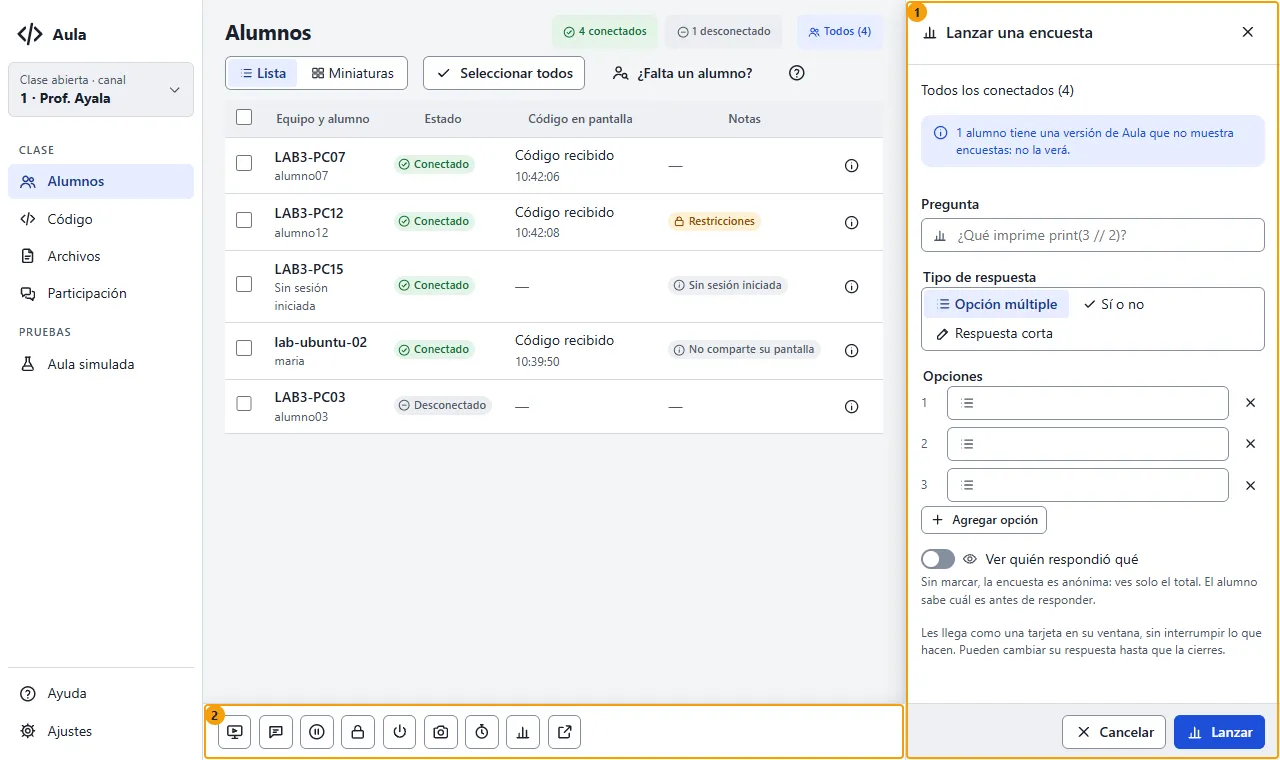
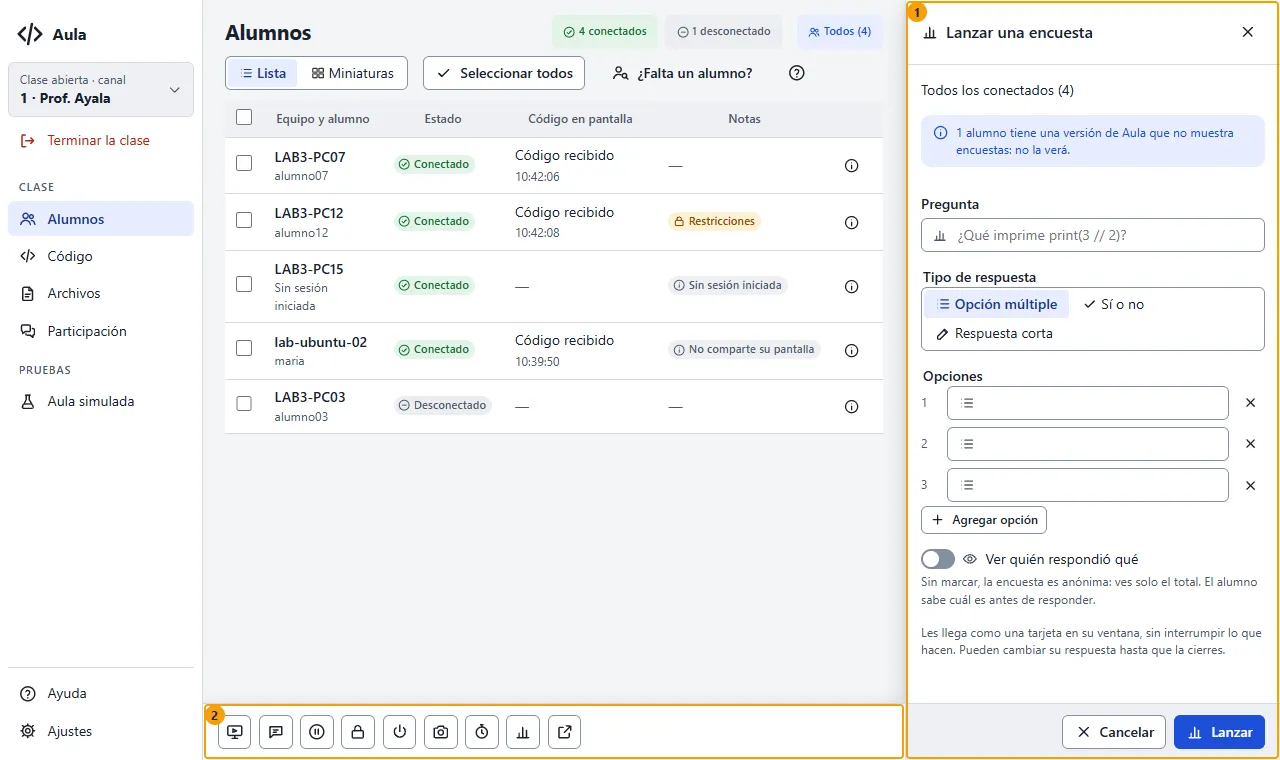
documentacion(ux): zonas de Terminar la clase, mapa, historial y propuesta P-03
Zonas Terminar la clase, su diálogo y la tarjeta del alumno, el mapa regenerado, la página
del historial con la ubicación elegida y las decisiones, y P-03 para borrar archivos al
terminar, que queda fuera de esta versión.

Changed region(s): [[0.0, 0.1816, 0.125, 0.3934], [0.0, 0.4237, 0.0938, 0.5447], [0.125, 0.2118, 0.1562, 0.2421]]

diff --git a/docs/ux/MAPA.md b/docs/ux/MAPA.md
@@ -16,12 +16,13 @@ archivo y sus imágenes los genera `node scripts/ux/mapa.mjs` (no se editan a ma
 |---|---|---|
 | 1 | **Menú** | Columna izquierda: la clase abierta, las vistas y Ayuda y Ajustes. |
 | 2 | **Selector de clase** | Canal y nombre de la clase abierta; abre «Cambiar de canal». |
-| 3 | **Cabecera de la vista** | Título de la vista, su resumen y el «?» de ayuda contextual. |
-| 4 | **Selección** | A quién van las acciones de la barra: «Todos (n)» o «n seleccionados», con su explicación en el tooltip. |
-| 5 | **Selector Lista | Miniaturas** | Cambia entre la tabla y las miniaturas de pantalla. |
-| 6 | **Lista de alumnos** | Tabla con un alumno por fila. |
-| 7 | **Fila del alumno** | Un alumno: casilla, equipo, estado, insignias y el botón de su ficha. |
-| 8 | **Barra de acciones** | Abajo: lo que se aplica a la selección (aviso, transmitir, pausar, restricciones, captura, temporizador, encuesta, energía…). |
+| 3 | **Terminar la clase** | Bajo el Selector de clase: detiene lo activo y deja limpia la ventana de cada alumno (prompt 10.14). |
+| 4 | **Cabecera de la vista** | Título de la vista, su resumen y el «?» de ayuda contextual. |
+| 5 | **Selección** | A quién van las acciones de la barra: «Todos (n)» o «n seleccionados», con su explicación en el tooltip. |
+| 6 | **Selector Lista | Miniaturas** | Cambia entre la tabla y las miniaturas de pantalla. |
+| 7 | **Lista de alumnos** | Tabla con un alumno por fila. |
+| 8 | **Fila del alumno** | Un alumno: casilla, equipo, estado, insignias y el botón de su ficha. |
+| 9 | **Barra de acciones** | Abajo: lo que se aplica a la selección (aviso, transmitir, pausar, restricciones, captura, temporizador, encuesta, energía…). |
 
 ### Consola · Alumnos (miniaturas)
 
@@ -71,6 +72,15 @@ archivo y sus imágenes los genera `node scripts/ux/mapa.mjs` (no se editan a ma
 | 1 | **Franja global** | Lo que sigue activo durante la clase (transmitir, proyectar a un alumno, control, pantallas en pausa, energía, temporizador, encuesta abierta, aula simulada), con su botón para detenerlo. |
 | 2 | **Panel Pausar pantallas** | Pausar las pantallas de la selección o de todos, con un mensaje opcional, o reanudarlas (Ctrl+Mayús+P). |
 | 3 | **Barra de acciones** | Abajo: lo que se aplica a la selección (aviso, transmitir, pausar, restricciones, captura, temporizador, encuesta, energía…). |
+
+### Consola · Terminar la clase
+
+![Consola · Terminar la clase](mapa/consola-terminar.webp)
+
+| # | Zona | Qué es |
+|---|---|---|
+| 1 | **Terminar la clase** | Bajo el Selector de clase: detiene lo activo y deja limpia la ventana de cada alumno (prompt 10.14). |
+| 2 | **Diálogo Terminar la clase** | Lo que sigue activo, lo que se vacía y lo opcional (recoger, cancelar la energía); después, los pasos y el resultado por alumno con «Reintentar a los que faltan». |
 
 ### Consola · Abrir página o app
 
@@ -168,6 +178,16 @@ archivo y sus imágenes los genera `node scripts/ux/mapa.mjs` (no se editan a ma
 | 3 | **Bandas de transparencia** | Lo que el profesor hace con el equipo (energía, control, pantalla en pausa, pantalla vista, tu pantalla mostrada a la clase, restricciones); no se cierran. |
 | 4 | **Estado vacío** | Lo que se ve cuando no hay código ni archivos. |
 
+### Alumno · La clase terminó
+
+![Alumno · La clase terminó](mapa/alumno-fin-clase.webp)
+
+| # | Zona | Qué es |
+|---|---|---|
+| 1 | **Tira de identidad** | Arriba: a qué clase está conectado, el temporizador y los botones del alumno. |
+| 2 | **Tarjeta «La clase terminó»** | Cuándo terminó la clase y qué se quitó, con «Entendido»; no es una banda (prompt 10.14). |
+| 3 | **Estado vacío** | Lo que se ve cuando no hay código ni archivos. |
+
 ### Alumno · Código recibido
 
 ![Alumno · Código recibido](mapa/alumno-codigo.webp)
@@ -238,6 +258,7 @@ También las que no salen en una imagen (diálogos y paneles). El `id` es el que
 |---|---|---|
 | `menu` | Menú | Columna izquierda: la clase abierta, las vistas y Ayuda y Ajustes. |
 | `menu-clase` | Menú › Selector de clase | Canal y nombre de la clase abierta; abre «Cambiar de canal». |
+| `menu-terminar` | Menú › Terminar la clase | Bajo el Selector de clase: detiene lo activo y deja limpia la ventana de cada alumno (prompt 10.14). |
 | `franja` | Franja global | Lo que sigue activo durante la clase (transmitir, proyectar a un alumno, control, pantallas en pausa, energía, temporizador, encuesta abierta, aula simulada), con su botón para detenerlo. |
 | `cabecera` | Cabecera de la vista | Título de la vista, su resumen y el «?» de ayuda contextual. |
 | `avisos` | Avisos (toasts) | Mensajes breves abajo a la derecha tras una acción. |
@@ -257,6 +278,7 @@ También las que no salen en una imagen (diálogos y paneles). El `id` es el que
 | `dlg-privado` | Diálogo Mensaje privado | Escribir un mensaje solo para un alumno, con su tipo; se abre desde la Pantalla grande. |
 | `dlg-abrir` | Diálogo Abrir en un alumno | Abrir una página o una app permitida en el equipo de un alumno; se abre desde la Pantalla grande. |
 | `dlg-plantilla` | Diálogo Nueva plantilla | Crear una plantilla con su nombre y sus archivos; se abre desde Plantillas (nota de interfaz 17). |
+| `dlg-terminar` | Diálogo Terminar la clase | Lo que sigue activo, lo que se vacía y lo opcional (recoger, cancelar la energía); después, los pasos y el resultado por alumno con «Reintentar a los que faltan». |
 | `dlg-pausa` | Diálogo Cambiar mensaje de la pausa | Cambiar el mensaje de las pantallas en pausa; se abre desde la Franja global (prompt 10.21). |
 | `panel-aviso` | Panel Aviso | Mandar un aviso a la selección. |
 | `panel-pausa` | Panel Pausar pantallas | Pausar las pantallas de la selección o de todos, con un mensaje opcional, o reanudarlas (Ctrl+Mayús+P). |
@@ -312,6 +334,7 @@ También las que no salen en una imagen (diálogos y paneles). El `id` es el que
 | `capacidades` | Qué puede hacer Aula en este equipo | La grilla de lo que el profesor puede hacer con este equipo, como la ficha de la consola. |
 | `enviados` | Tus mensajes | Los mensajes enviados y si llegaron. |
 | `vacio` | Estado vacío | Lo que se ve cuando no hay código ni archivos. |
+| `fin-clase` | Tarjeta «La clase terminó» | Cuándo terminó la clase y qué se quitó, con «Entendido»; no es una banda (prompt 10.14). |
 | `encuestas` | Encuestas | Una tarjeta por encuesta del profesor, arriba de la lista. |
 | `tarjeta-encuesta` | Encuestas › Tarjeta de encuesta | La pregunta, si es anónima, las opciones con Enviar y, si el profesor los comparte, los resultados de la clase. |
 | `recolecciones` | Recolecciones | Una tarjeta por recolección del profesor. |

diff --git a/docs/ux/historial/terminar-la-clase.md b/docs/ux/historial/terminar-la-clase.md
@@ -1,0 +1,54 @@
+# Terminar la clase (10.14): ubicación y decisiones
+
+Estado: **implementado, sin commit** (12/11/2026). Prompt `docs/prompts/10.14-terminar-la-clase.md`,
+con `/funcionalidad-nueva 10.14`. Sin capturas versionadas: las del arnés son
+`scripts/ux/salida/184-188` (consola) y `scripts/ux/salida-alumno/95-97` (alumno), y salen en el CI.
+El mapa tiene «Consola · Terminar la clase» y «Alumno · La clase terminó».
+
+## Análisis
+
+En un laboratorio compartido, el profesor que olvida detener algo (una restricción, una pausa, el
+temporizador) se lo deja al siguiente grupo. Cada función ya tenía su parada; faltaba una sola
+acción que las llamara en orden y limpiara la ventana del alumno, que ninguna parada tocaba (el
+código, los avisos, las tarjetas de archivos y encuestas, la mano).
+
+- **No es una acción sobre la selección ni sobre un alumno:** es sobre la clase entera. Por eso no
+  va en la Barra de acciones ni en la Pantalla grande.
+- **No es algo que «sigue activo»:** la Franja global solo aparece si hay algo activo, y la ventana
+  del alumno puede necesitar limpieza aunque no haya nada activo.
+- **No tiene material propio:** no es un módulo del menú.
+
+## Opciones de ubicación presentadas
+
+1. **Bajo el Selector de clase del Menú** (recomendada, elegida): siempre visible, junto a lo que
+   identifica la clase; en el menú compacto queda el icono.
+2. **Franja global:** al final de las franjas, solo con algo activo.
+3. **Cabecera de Alumnos:** junto a la Selección, solo en esa vista.
+
+En las tres, el diálogo es propio («Terminar la clase»), no un panel de la barra.
+
+## Decisiones
+
+- **Mensaje nuevo `class.end`** con acuse y capacidad (§5.25), en vez de solo los mensajes uno por
+  uno: limpia la ventana de una vez y en orden, y da un resultado por alumno. Un agente anterior
+  recibe `code.clear` y queda «limpio en parte».
+- **Orden:** recoger (opcional) → lo que actúa sobre el equipo → lo que informa → energía (solo si
+  se marca) → `class.end` → la consola «sin clase». Si un paso falla, los demás siguen.
+- **La energía pendiente se conserva** por omisión (regla 85).
+- **No se borran archivos** en esta versión (regla 84); borrar quedó como propuesta P-03.
+- **Historial de código y «Últimos envíos» se vacían** (decisión del usuario): el siguiente grupo
+  empieza de cero. Antes sobrevivían al cambio de canal (C2) y lo siguen haciendo.
+- **Quien faltaba recibe `class.end` al reconectar**, siempre, antes de lo que la consola reenvía:
+  mientras estuvo fuera no recibió nada nuevo, así que no hace falta condicionarlo a que el
+  profesor no haya mandado nada (se simplificó el diseño aprobado).
+- **Sin 10.13:** «Exportar la asistencia», «olvidar la identidad» y «sin materia» se agregan como
+  un paso más cuando exista 10.13.
+- **En el alumno:** una tarjeta arriba del Estado vacío, con «Nuevo», la hora y lo que se quitó;
+  `notify`, nunca `raise`; se cierra con «Entendido» o al llegar código nuevo. No es una banda.
+
+## Resultados
+
+- Capturas 184–188 y 95–97 sin errores de JS ni violaciones serias de axe (la tabla con desplazamiento
+  del resultado necesitó foco y nombre de región).
+- `pruebas-alumno.mjs` «fin-de-clase»: la tarjeta no quita el foco, no es banda, cuenta como «sin ver»
+  y se cierra con «Entendido».

diff --git a/docs/ux/PROPUESTAS.md b/docs/ux/PROPUESTAS.md
@@ -31,6 +31,20 @@ SemVer).
   con una regla nueva en `docs/privacidad.md`. Recomendación: decidirlo junto con la política del
   centro antes de diseñarlo.
 
+## P-03 · Borrar los archivos del alumno al terminar la clase
+
+- **Pide:** prompt 10.14: que «Terminar la clase» deje también vacía la carpeta `Documentos\Aula`
+  del alumno (archivos recibidos y recolecciones), para que el siguiente grupo no los vea.
+- **Hoy:** `class.end` (§5.25) solo quita las tarjetas de la ventana; los archivos se quedan
+  (`docs/privacidad.md` regla 84). Decisión del 2026-11-12: no borrar en esta versión.
+- **Necesitaría:** un campo opcional en `class.end` (por ejemplo, `clear_work_folder`) y una
+  regla del agente que solo borre lo que Aula escribió (con su diario, como las restricciones),
+  nunca lo que el alumno creó. Es compatible hacia atrás si es opcional (versión menor).
+- **Privacidad y riesgo:** borrar trabajo del alumno es irreversible: pediría confirmación del
+  profesor, un aviso en la tarjeta «La clase terminó» y quizá que el administrador lo habilite
+  por centro. Recomendación: decidirlo con 10.13 (cuentas por alumno), que separa el trabajo de
+  cada grupo.
+
 ## Notas (no son cambios de protocolo)
 
 - **Columna «Canal»** (Fase 3, punto 2): no se agrega a la lista porque todos los alumnos que ve la
